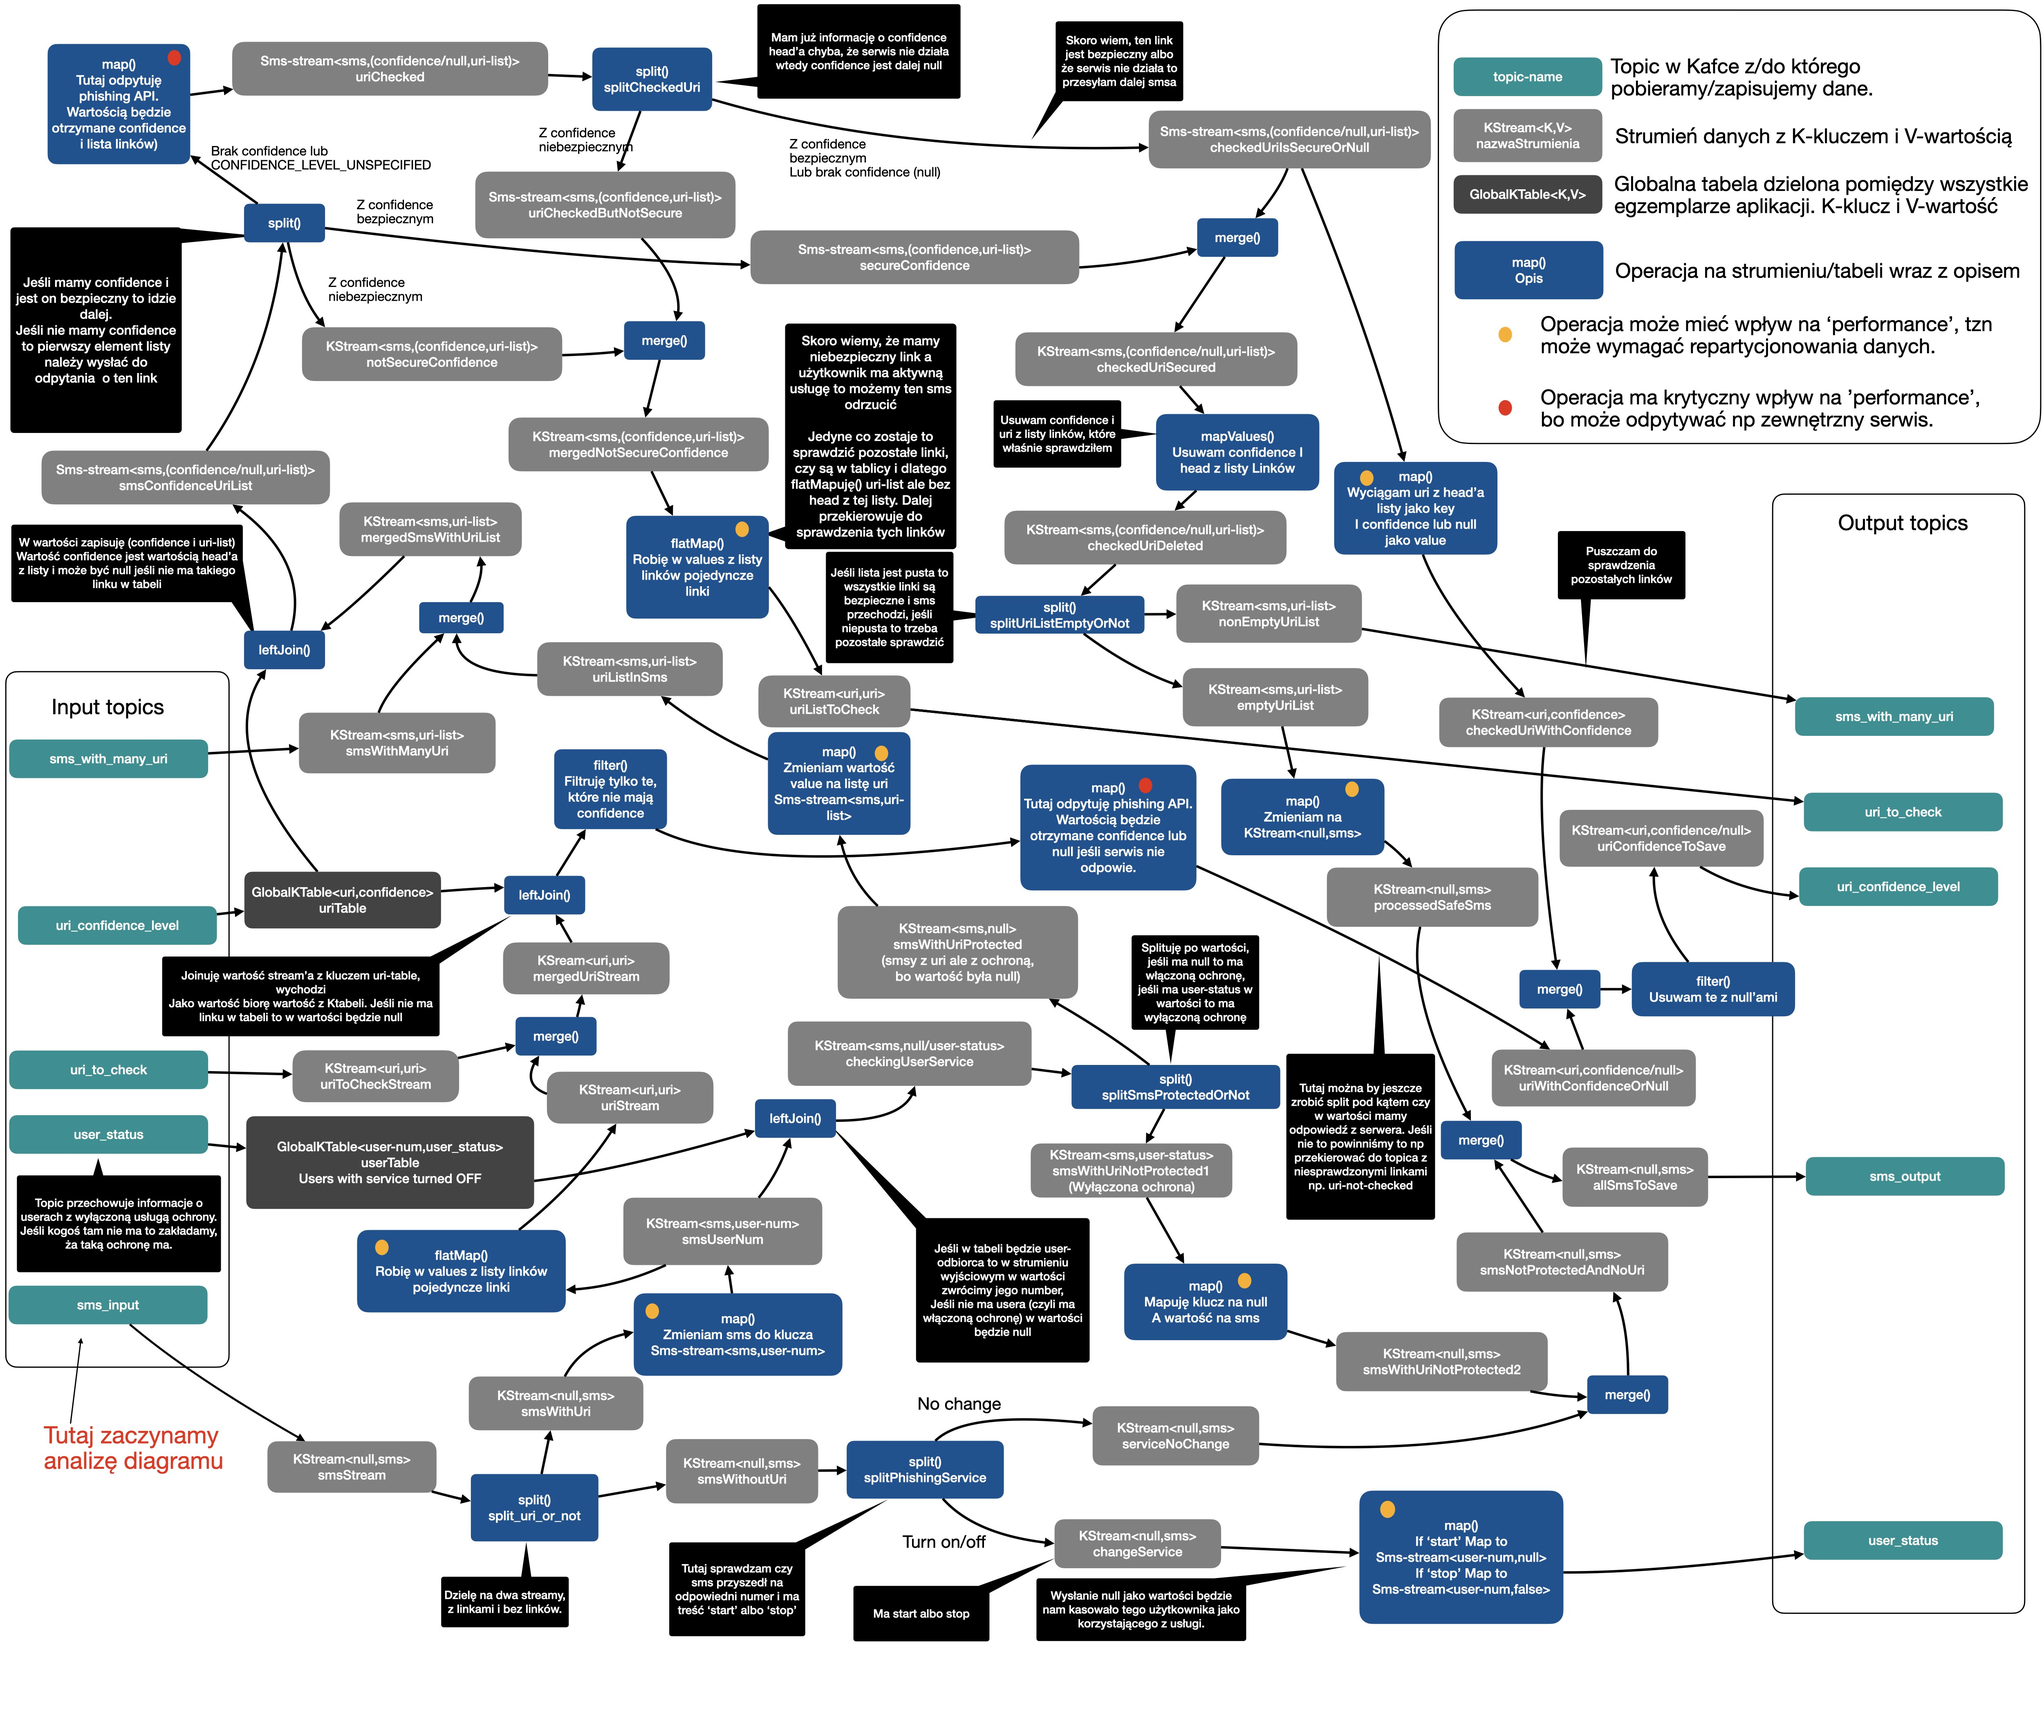
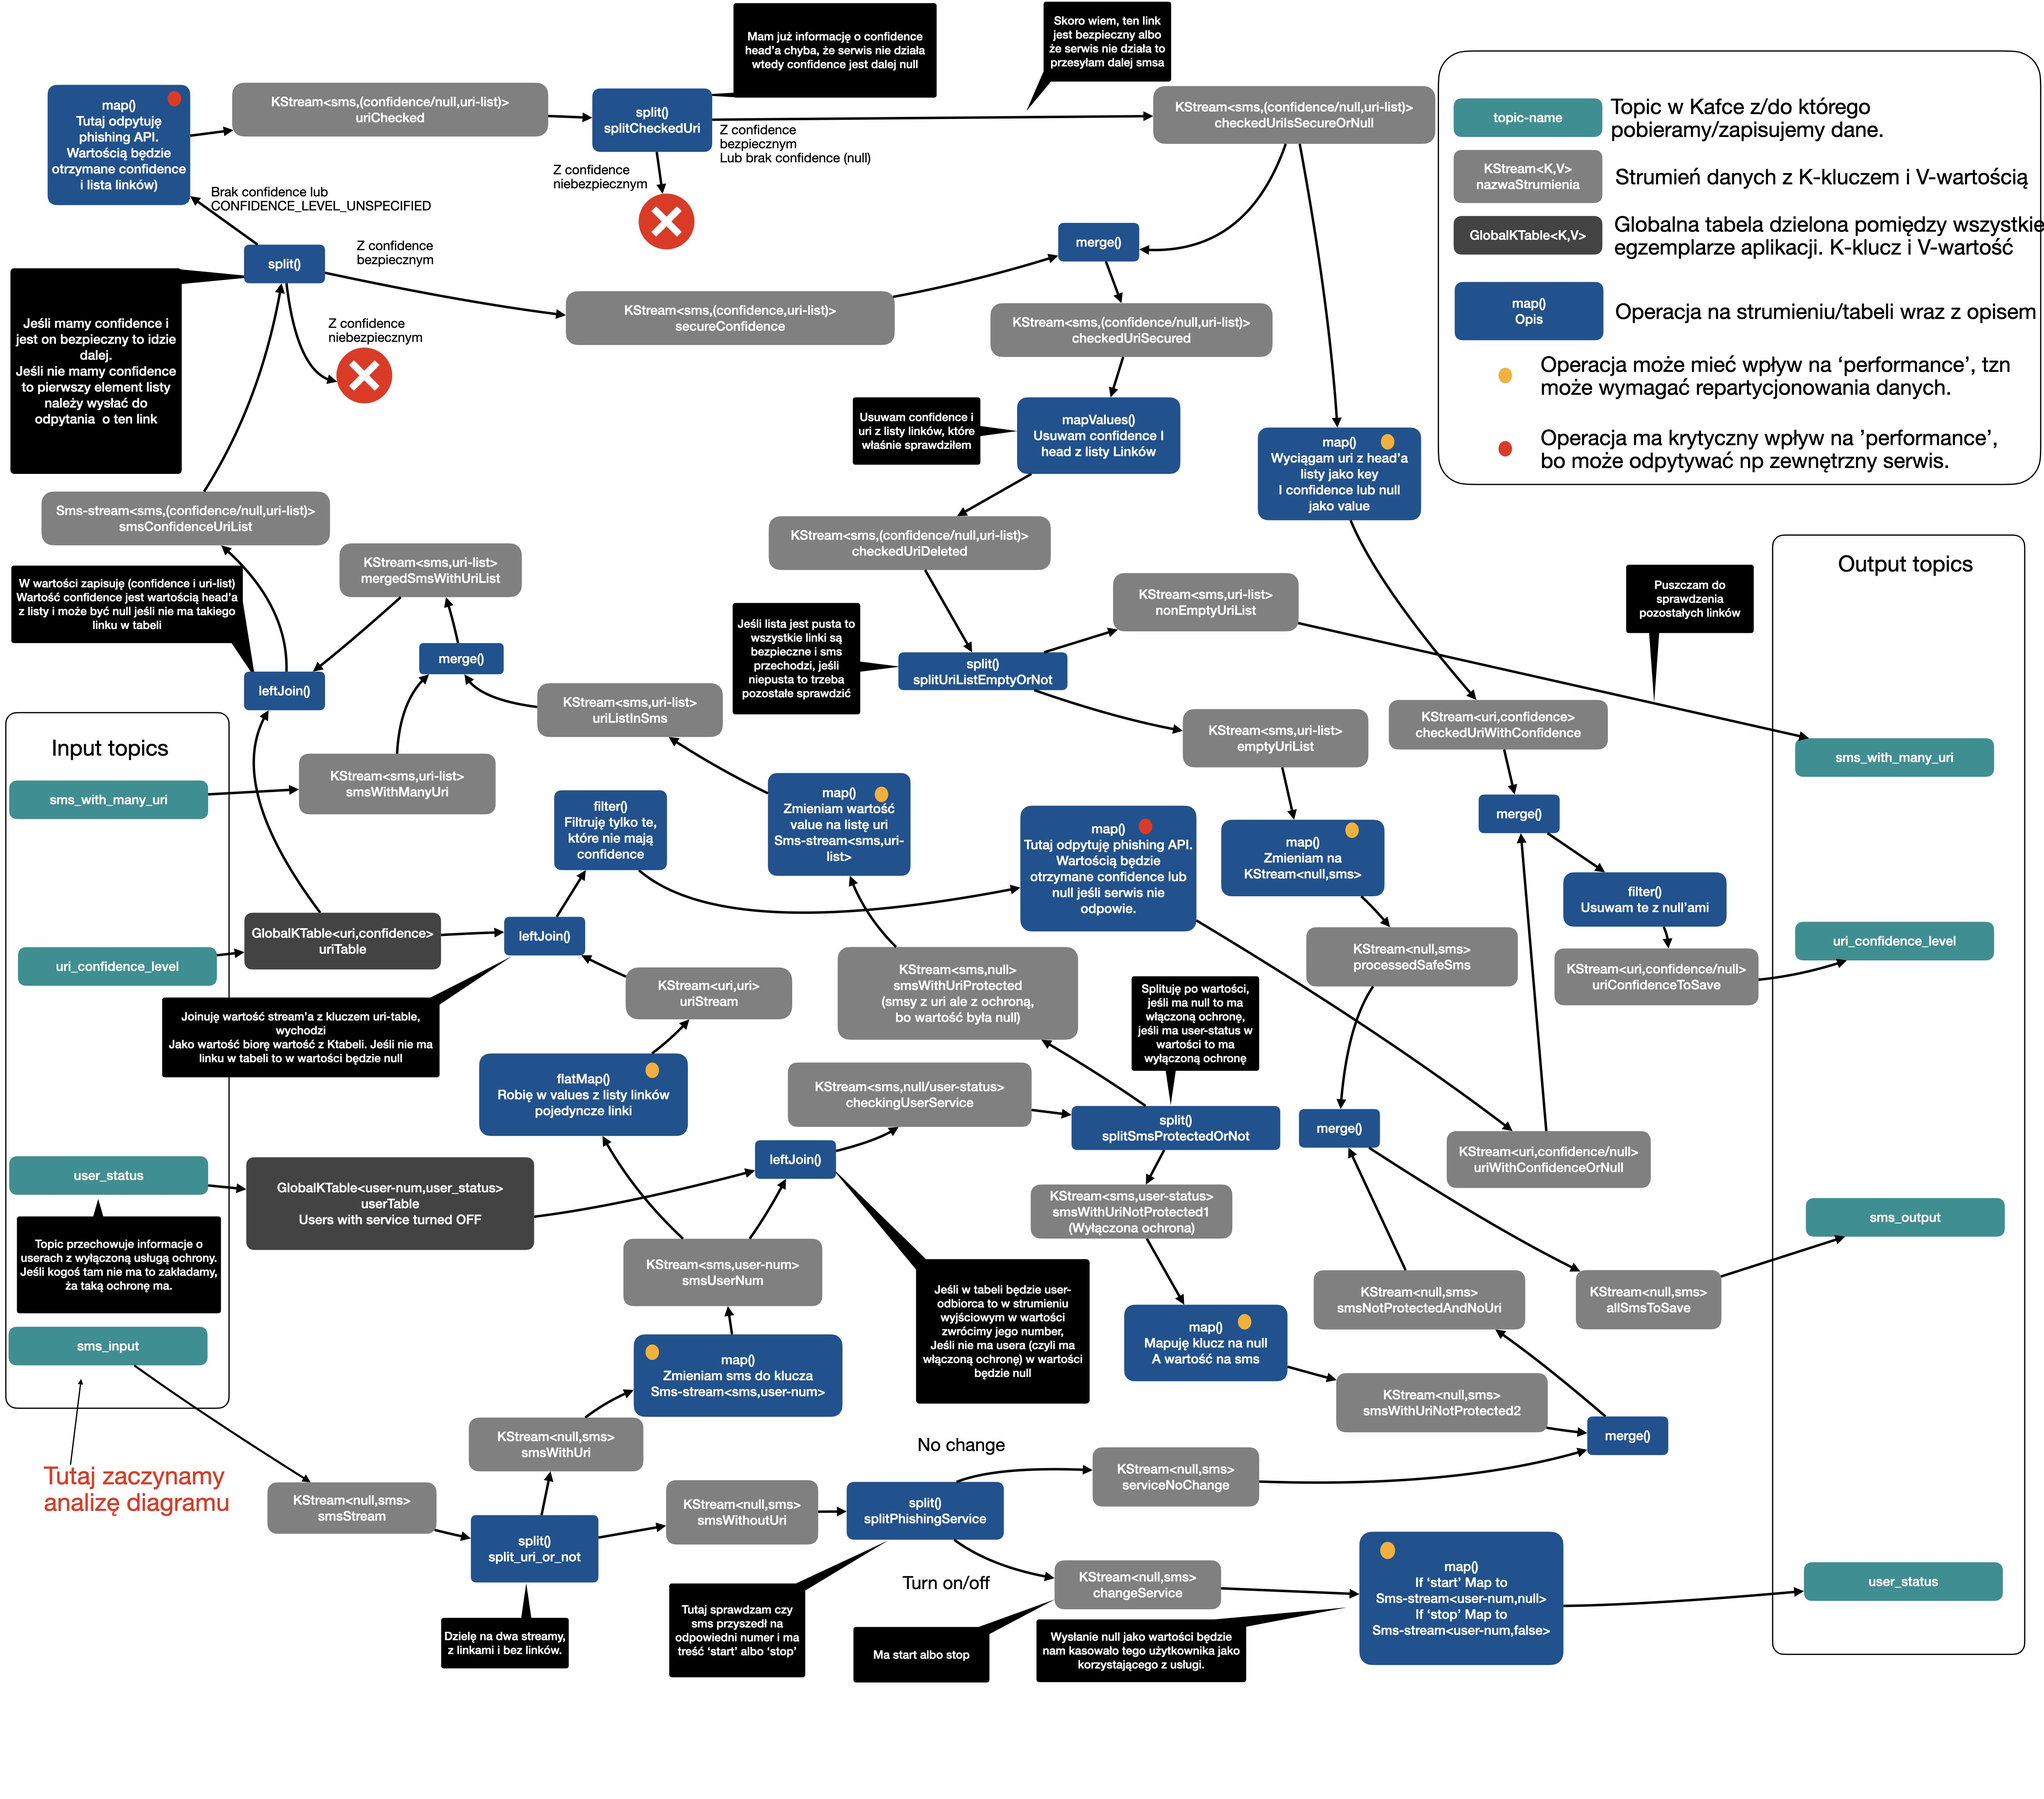
Redundant code removed from topology. topology.jpeg updated. Removed all stuff with uri_to_check topic.

diff --git a/README.md b/README.md
@@ -67,10 +67,7 @@ I tak przy uruchamianiu aplikacji tworzymy dodatkowo następujące topiki:
   w SMSie. Dzieje się tak do momentu, aż któryś z linków okaże się niebezpieczny wtedy taki SMS wypada z obiegu 
   (są w nim tylko SMSy z URI i aktywną ochroną) a pozostałe linki z SMSa trafiają do topica `uri_to_check`, żeby 
   zostały sprawdzone, i nabudowywały nam naszą tablicę `uri_table`.
-* `uri_to_check` - jest to topic do którego trafiają adresy URI pochodzące z SMSów użytkowników z włączoną ochroną,
-  które to SMSy zostały odrzucone bo nieostatni znaleziony w wiadomości link był niebezpieczny. Takie URI są 
-  następnie ponownie zaciągane do aplikacji i jeśli nie ma ich w naszej tablicy `uriTable` to dla nich też zostanie 
-  sprawdzony status. Status ten następnie trafi do tejże tablicy. 
+
 
 W celu zmniejszenia ilości przechowywanych na brokerze danych, można by takie topiki jak `sms_with_many_uri` i `uri_to_check` skonfigurować
 z ograniczonym czasem retencji.
@@ -124,6 +121,58 @@ gdzie `sms_input` to topic wejściowy smsów do kafki. Z niego aplikacja pobiera
 > zewnętrznego servisu nie doszło do sytuacji, że odcinamy użtkowników od smsów (z linkami). Będzie to rzadka sytuacja bo *baza* powinna
 > się szybko nabudować i odpytywanie zewnętrznego serwisu powinno być coraz rzadsze. 
 
+## Symulacja działania
+Prosta symulacja działania aplikacji (bez dostępu do api):
+
+Zakomentować treść metody `PhishingApiCaller.check()` i wstawić poniższy kod:
+
+```scala
+val forbiden = List("https://forbidden.com", "https://foo.org")
+if (forbiden.contains(uriToCheck)) ConfidenceLevel.HIGH
+else ConfidenceLevel.LOW
+```
+
+zbudować środowisko testowe:
+
+```zsh
+./runDev 
+```
+
+uruchomić w oddzielnych terminalach za pomocą skryptu `./topicContent <nazwa-topica>` wszystkie consumery do podglądu.
+A następnie w jeszcze kolejnym do wysyłania sms:
+
+```zsh
+./smsSender sms-input
+```
+
+W terminalu do wysyłania sms wklejić i potwierdzić enterem przykładowy sms:
+
+```zsh
+{"sender":"234100200300","recipient":"48700800999","message":"coś innego"}
+```
+
+trafi on na `sms-output`. Następnie wysłać z zabronioną domeną:
+
+```zsh
+{"sender":"234100200300","recipient":"48700800999","message":"coś https://forbidden.com innego"}
+```
+
+Nie trafi on na `sms-output` ale w `uri_confidence_level` pojawi się `HIGH` (consumer wyświetla tylko wartości bez kluczy).
+Następnie można wyłączyć usługę:
+
+```zsh
+{"sender":"234100200300","recipient":"123456789","message":"STOP"}
+```
+
+Wtedy w `user_status` pojawi się `"false"`. Ponowne wysłanie wiadomości: 
+
+```zsh
+{"sender":"234100200300","recipient":"48700800999","message":"coś https://forbidden.com innego"}
+```
+
+z zabronionym linkiem sprawi, że teraz sms trafi do `sms_output`, bo usługa jest wyłączona.
+
+I tak dalej...
 
 # Budowanie Aplikacji
 Uruchom terminal i przejdź do folderu play-with-me. Następnie nadaj prawa wykonywalności plikowi `run` wpisując: 
@@ -172,11 +221,11 @@ Aby to umożliwić konieczne jest wykonanie kilku kroków:
   [`main()`](https://github.com/malyszaryczlowiek/play-with-me/blob/1-dev-branch/kafka-sms-analyser/src/main/scala/SmsAnalyser.scala) 
   oraz w obiekcie 
   [`TopicCreator`](https://github.com/malyszaryczlowiek/play-with-me/blob/1-dev-branch/kafka-sms-analyser/src/main/scala/util/TopicCreator.scala)
-* Aplikacja przy uruchomieniu tworzy oba pliki (`keyStore.jks` i `trustStore.jks`) jednocześnie wstawiając certyfikat do
+* Aplikacja przy uruchomieniu tworzy oba potrzebne pliki (`keyStore.jks` i `trustStore.jks`) jednocześnie wstawiając certyfikat do
   `trustStore.jks`.
 
-Takie rozwiązanie SSL zdążyłem zaimplementować, ale nie zdążyłem przetestować czy w ogóle zadziała, dlatego jest ono w kodzie
-źródłowym zakomentowane. Bardzo możliwe, że coś w takim rozwiązaniu jest nie tak.  
+Nie implementowałem wcześniej zabezpieczania SSL. Więc możliwe, że coś tutaj robię źle. Dokumentacja do zabezpieczenia kafki streams
+na której się wzorowałem jest [tutaj](https://kafka.apache.org/documentation/streams/developer-guide/security.html).
 
 
 # What TODO
